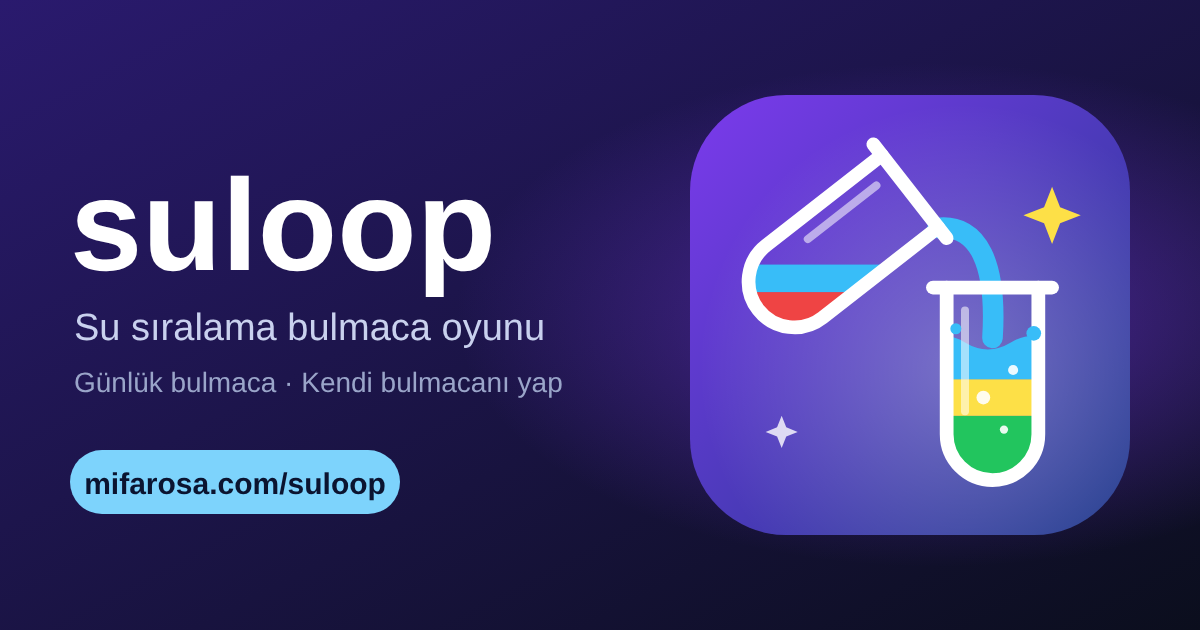
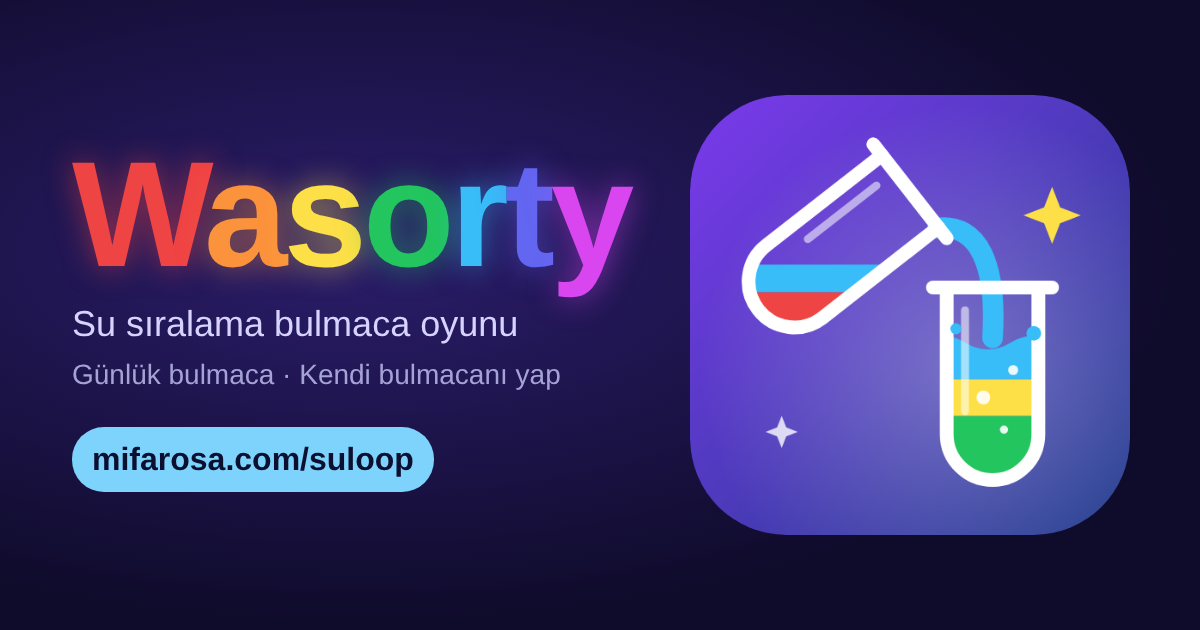
Rename the game to Wasorty, with a colorful opening screen
Storage keys, the site path and the Firebase project keep their names so nobody loses progress.

Claude-Session: https://claude.ai/code/session_01MwZ9XZaa6XDPAWXrTd9wzM

diff --git a/index.html b/index.html
@@ -12,8 +12,8 @@
     <meta name="description" content="Renkli suları tüplere ayırdığın bulmaca oyunu." />
     <!-- How a shared link looks: LinkedIn, WhatsApp, X and others read these. -->
     <meta property="og:type" content="website" />
-    <meta property="og:site_name" content="suloop" />
-    <meta property="og:title" content="suloop · Su sıralama oyunu" />
+    <meta property="og:site_name" content="Wasorty" />
+    <meta property="og:title" content="Wasorty · Su sıralama oyunu" />
     <meta
       property="og:description"
       content="Her aşamada yeni bir kural, günlük bulmaca ve kendi bulmacanı yapma. Tarayıcıda oyna."
@@ -23,7 +23,7 @@
     <meta property="og:image:width" content="1200" />
     <meta property="og:image:height" content="630" />
     <meta name="twitter:card" content="summary_large_image" />
-    <title>suloop · Su sıralama oyunu</title>
+    <title>Wasorty · Su sıralama oyunu</title>
     <script>
       // The saved theme, before the first paint, so the page never flashes another one.
       try {
@@ -40,7 +40,7 @@
     <meta name="apple-mobile-web-app-capable" content="yes" />
     <meta name="mobile-web-app-capable" content="yes" />
     <meta name="apple-mobile-web-app-status-bar-style" content="black-translucent" />
-    <meta name="apple-mobile-web-app-title" content="suloop" />
+    <meta name="apple-mobile-web-app-title" content="Wasorty" />
     <link rel="preconnect" href="https://fonts.googleapis.com" />
     <link rel="preconnect" href="https://fonts.gstatic.com" crossorigin />
     <link
@@ -50,6 +50,16 @@
   </head>
   <body>
     <canvas id="scene" aria-label="Oyun alanı"></canvas>
+
+    <div id="splash" class="splash" aria-hidden="true">
+      <div class="wordmark" aria-label="Wasorty">
+        <span style="--c: #ef4444">W</span><span style="--c: #fb923c">a</span
+        ><span style="--c: #fde047">s</span><span style="--c: #22c55e">o</span
+        ><span style="--c: #38bdf8">r</span><span style="--c: #6366f1">t</span
+        ><span style="--c: #d946ef">y</span>
+      </div>
+      <p class="splash-tagline">Su sıralama bulmaca oyunu</p>
+    </div>
 
     <header class="hud">
       <div class="hud-info">

diff --git a/src/styles.css b/src/styles.css
@@ -1616,3 +1616,80 @@ button.google:hover:not(:disabled) {
   justify-content: space-between;
   margin-top: 0;
 }
+
+/* The opening screen: the name, a letter at a time, each in a color of the water. */
+.splash {
+  position: fixed;
+  inset: 0;
+  z-index: 50;
+  display: grid;
+  place-content: center;
+  justify-items: center;
+  gap: 14px;
+  background:
+    radial-gradient(ellipse 70% 45% at 50% 50%, var(--glow), transparent 70%),
+    linear-gradient(var(--bg-top), var(--bg-bottom));
+  transition: opacity 0.45s ease;
+}
+
+.splash.leaving {
+  opacity: 0;
+  pointer-events: none;
+}
+
+.wordmark {
+  display: flex;
+  font-family: var(--font-display);
+  font-size: clamp(3rem, 18vw, 6rem);
+  font-weight: 800;
+  letter-spacing: -0.02em;
+  line-height: 1;
+}
+
+.wordmark span {
+  color: var(--c);
+  text-shadow:
+    0 0 24px color-mix(in srgb, var(--c) 55%, transparent),
+    0 4px 0 color-mix(in srgb, var(--c) 45%, black);
+  animation: letter-drop 0.7s cubic-bezier(0.34, 1.56, 0.64, 1) backwards;
+}
+
+.wordmark span:nth-child(2) {
+  animation-delay: 0.06s;
+}
+.wordmark span:nth-child(3) {
+  animation-delay: 0.12s;
+}
+.wordmark span:nth-child(4) {
+  animation-delay: 0.18s;
+}
+.wordmark span:nth-child(5) {
+  animation-delay: 0.24s;
+}
+.wordmark span:nth-child(6) {
+  animation-delay: 0.3s;
+}
+.wordmark span:nth-child(7) {
+  animation-delay: 0.36s;
+}
+
+.splash-tagline {
+  margin: 0;
+  color: var(--muted);
+  font-size: 1rem;
+  animation: letter-drop 0.7s ease 0.5s backwards;
+}
+
+@keyframes letter-drop {
+  from {
+    opacity: 0;
+    transform: translateY(-40px) scale(0.8);
+  }
+}
+
+@media (prefers-reduced-motion: reduce) {
+  .wordmark span,
+  .splash-tagline {
+    animation: none;
+  }
+}

diff --git a/src/main.js b/src/main.js
@@ -31,7 +31,7 @@ let settings = loadSettings();
 setLanguage(settings.language);
 document.documentElement.lang = settings.language;
 if (settings.language === 'en') {
-  document.title = 'suloop · Water sort puzzle';
+  document.title = 'Wasorty · Water sort puzzle';
   applyStaticTexts(document);
 }
 
@@ -260,7 +260,23 @@ settingsDialog.bindActions({
 });
 applySettings();
 controller.start();
+showSplash();
 announceNews();
+
+/** The name in bright colors while the first board settles; a tap or a moment closes it. */
+function showSplash() {
+  const splash = document.querySelector('#splash');
+  if (!splash) return;
+  if (settings.language === 'en') {
+    splash.querySelector('.splash-tagline').textContent = 'Water sort puzzle';
+  }
+  const close = () => {
+    splash.classList.add('leaving');
+    setTimeout(() => splash.remove(), 500);
+  };
+  splash.addEventListener('pointerdown', close, { once: true });
+  setTimeout(close, 1900);
+}
 
 /** Tells the player once about what is new since they last played. */
 function announceNews() {
@@ -273,7 +289,7 @@ function announceNews() {
     // Without storage the note would come every time; leave it out.
     return;
   }
-  setTimeout(() => hud.showToast(texts.newsDailyRules, { long: true }), 800);
+  setTimeout(() => hud.showToast(texts.newsDailyRules, { long: true }), 2600);
 }
 
 /** Takes a puzzle someone shared, as in "…/suloop/#bulmaca=…"; it works for links opened here or pasted in. */

diff --git a/tests/controller.test.js b/tests/controller.test.js
@@ -174,7 +174,7 @@ describe('GameController', () => {
       continueLabel: 'Sonraki seviye',
       leaderboard: false,
       watch: false,
-      shareText: `suloop · Seviye 1 ⭐☆☆\n${moves.length} hamle (en az 9)`
+      shareText: `Wasorty · Seviye 1 ⭐☆☆\n${moves.length} hamle (en az 9)`
     });
 
     controller.continueAfterWin();
@@ -640,13 +640,13 @@ describe('GameController', () => {
   it('offers a result to share for levels and the daily puzzle, but not for custom puzzles', async () => {
     let controller = createController();
     await playSolution(controller, createLevelPuzzle(1), { shortest: true });
-    expect(lastWin().shareText).toBe('suloop · Seviye 1 ⭐⭐⭐\n9 hamle (en az 9)');
+    expect(lastWin().shareText).toBe('Wasorty · Seviye 1 ⭐⭐⭐\n9 hamle (en az 9)');
 
     const getDailySummary = () => ({ today: null, streak: 3 });
     controller = createController({ mode: 'daily' }, { getDailySummary });
     await playSolution(controller, createDailyPuzzle('2026-10-09'));
     expect(lastWin().shareText).toMatch(
-      /^suloop · Günün bulmacası, 9 Ekim [⭐☆]{3}\n\d+ hamle · \d+:\d\d · 🔥 3 gün$/u
+      /^Wasorty · Günün bulmacası, 9 Ekim [⭐☆]{3}\n\d+ hamle · \d+:\d\d · 🔥 3 gün$/u
     );
 
     controller = createController();

diff --git a/src/app/texts/tr.js b/src/app/texts/tr.js
@@ -115,7 +115,7 @@ export const tr = {
       ? `Çözülebilir · en az ${moves} hamle`
       : `Çözülebilir · bulunan en kısa çözüm ${moves} hamle`,
   editorUnsolvable: 'Çözüm bulunamadı. Boş tüp eklemeyi ya da renkleri değiştirmeyi dene.',
-  editorShareTitle: 'suloop bulmacam',
+  editorShareTitle: 'Wasorty bulmacam',
   editorLinkCopied: 'Bağlantı kopyalandı ✓',
   editorImportFailed: 'Bu bir bulmaca kodu değil. Kodu ya da bağlantıyı kontrol et.',
   editorImported: 'Bulmaca yüklendi.',
@@ -232,9 +232,9 @@ export const tr = {
   shareCopied: 'Kopyalandı ✓',
   shareStars: (stars) => '⭐'.repeat(stars) + '☆'.repeat(3 - stars),
   shareLevelText: (level, stars, moves, fewest) =>
-    `suloop · Seviye ${level} ${tr.shareStars(stars)}\n${moves} hamle (en az ${fewest})`,
+    `Wasorty · Seviye ${level} ${tr.shareStars(stars)}\n${moves} hamle (en az ${fewest})`,
   shareDailyText: (date, stars, moves, seconds, streak) =>
-    `suloop · Günün bulmacası, ${dayAndMonth.format(date)} ${tr.shareStars(stars)}\n` +
+    `Wasorty · Günün bulmacası, ${dayAndMonth.format(date)} ${tr.shareStars(stars)}\n` +
     `${moves} hamle · ${duration(seconds)}` +
     (streak >= 2 ? ` · 🔥 ${streak} gün` : ''),
 

diff --git a/src/app/texts/en.js b/src/app/texts/en.js
@@ -116,7 +116,7 @@ export const en = {
       ? `Solvable · ${moves} moves at the fewest`
       : `Solvable · shortest solution found: ${moves} moves`,
   editorUnsolvable: 'No solution found. Try adding an empty tube or changing the colors.',
-  editorShareTitle: 'My suloop puzzle',
+  editorShareTitle: 'My Wasorty puzzle',
   editorLinkCopied: 'Link copied ✓',
   editorImportFailed: 'That is not a puzzle code. Check the code or the link.',
   editorImported: 'Puzzle loaded.',
@@ -232,9 +232,9 @@ export const en = {
   shareCopied: 'Copied ✓',
   shareStars: (stars) => '⭐'.repeat(stars) + '☆'.repeat(3 - stars),
   shareLevelText: (level, stars, moves, fewest) =>
-    `suloop · Level ${level} ${en.shareStars(stars)}\n${en.moves(moves)} (fewest ${fewest})`,
+    `Wasorty · Level ${level} ${en.shareStars(stars)}\n${en.moves(moves)} (fewest ${fewest})`,
   shareDailyText: (date, stars, moves, seconds, streak) =>
-    `suloop · Daily puzzle, ${dayAndMonth.format(date)} ${en.shareStars(stars)}\n` +
+    `Wasorty · Daily puzzle, ${dayAndMonth.format(date)} ${en.shareStars(stars)}\n` +
     `${en.moves(moves)} · ${duration(seconds)}` +
     (streak >= 2 ? ` · 🔥 ${streak} days` : ''),
 

diff --git a/README.md b/README.md
@@ -1,4 +1,4 @@
-# suloop
+# Wasorty
 
 Renkli suları tüplere ayırdığın bulmaca oyunu. Tarayıcıda çalışır, kurulum ya da hesap gerektirmez.
 
